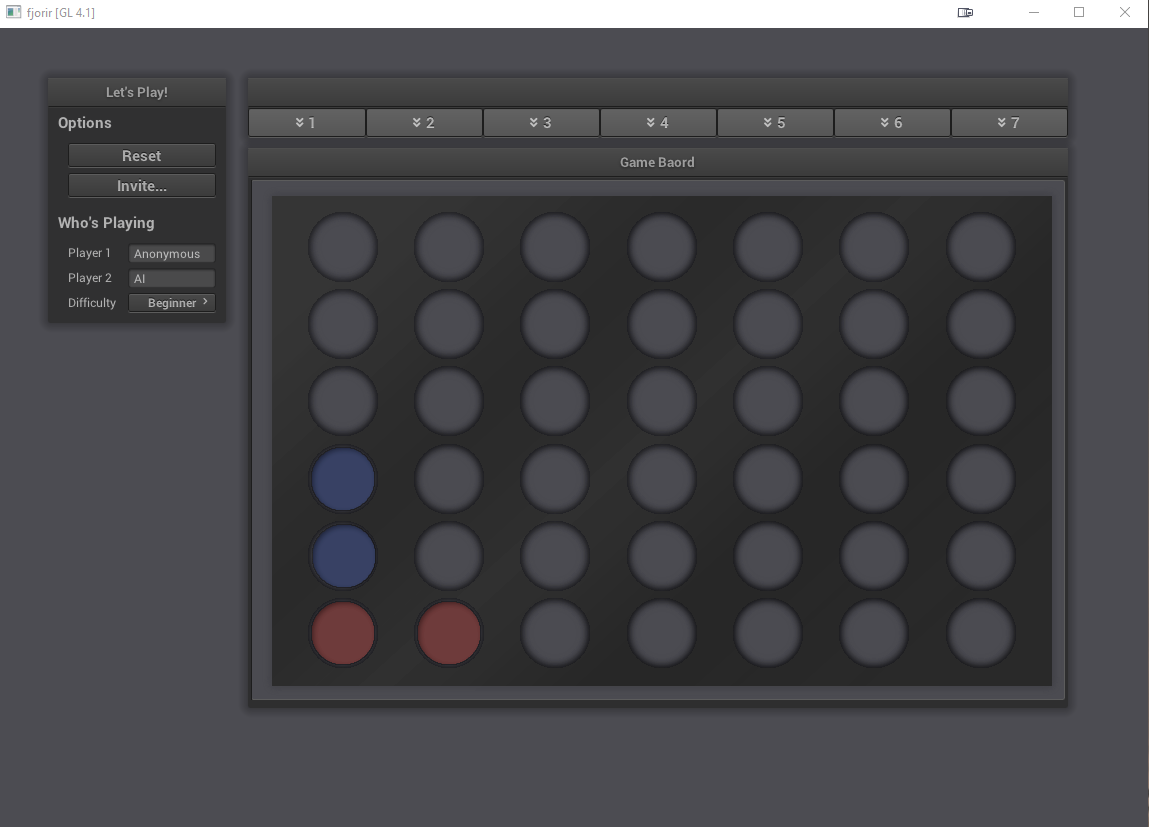
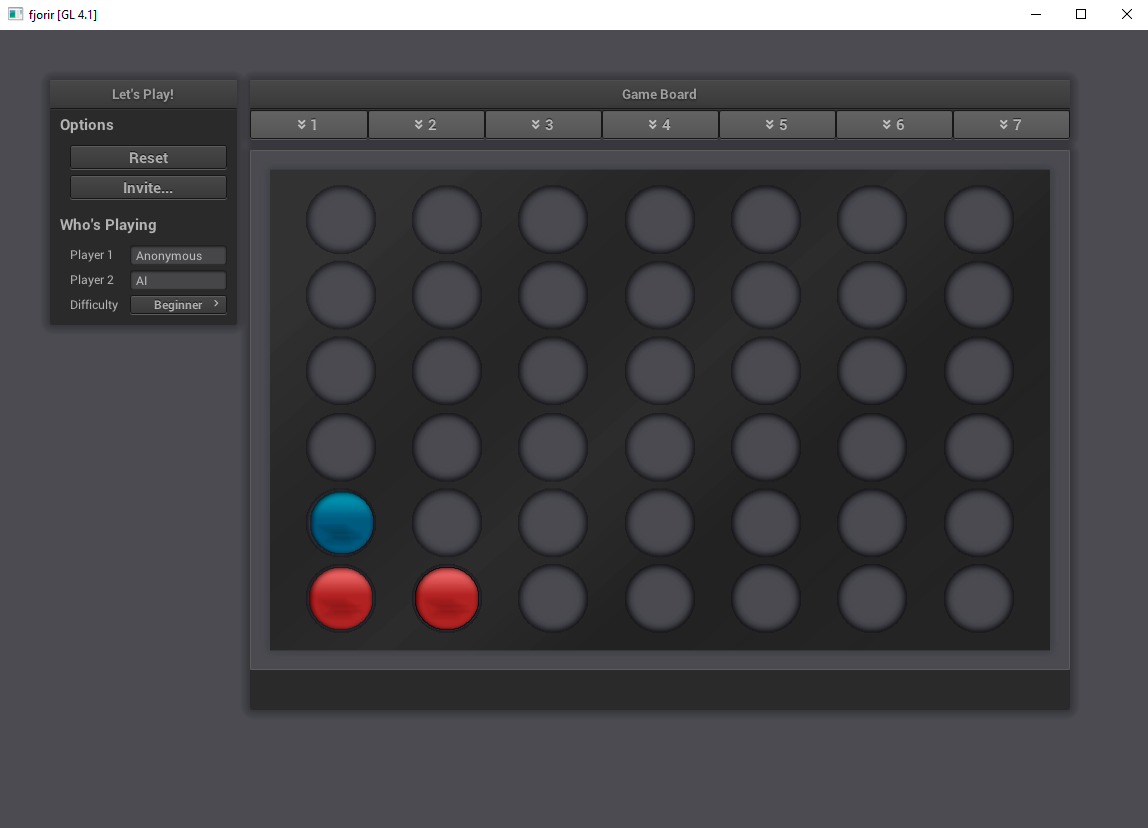
std::array board layout and new screenshots

diff --git a/src/interface.cc b/src/interface.cc
@@ -1,6 +1,7 @@
 #include <interface.h>
 
 namespace fjorir {
+
     Interface::Interface(bool init) : Screen(Vector2i(1150, 800), "fjorir [GL 4.1]",
         true, false,
         true, true,
@@ -42,73 +43,14 @@ namespace fjorir {
     }
 
     void Interface::set_board() {
-        auto window = new Window(this, " ");
+        this->inc_ref();
+        ref<Window> window = new Window(this, " ");
         window->set_fixed_size(Vector2i(820, 560));
         window->set_position(Vector2i(/*820, 520*/ 250, 120));
         canvas = new Board(window);
-        //        image_view->set_size(Vector2i(820, 520));
         canvas->set_background_color({ 100, 100, 100, 255 });
         canvas->set_fixed_size({ 820, 520 });
         perform_layout();
-        //#if defined(_WIN32)
-        //        /// Executable is in the Debug/Release/.. subdirectory
-        //        std::string resources_folder_path("../../../resources");
-        //#else
-        //        std::string resources_folder_path("./resources");
-        //#endif
-        //        std::vector<std::pair<int, std::string>> images;
-        //
-        //#if !defined(EMSCRIPTEN)
-        //        try {
-        //            images = load_image_directory(m_nvg_context, resources_folder_path);
-        //        }
-        //        catch (const std::exception& e) {
-        //            std::cerr << "Warning: " << e.what() << std::endl;
-        //        }
-        //#endif
-        //
-        //        auto image_window = new Window(this, "Game Baord");
-        //        image_window->set_fixed_size(Vector2i(820, 560));
-        //        image_window->set_position(Vector2i(/*820, 520*/ 250, 120));
-        //        image_window->set_layout(new GroupLayout(3));
-        //
-        //        Vector2i size;
-        //        int n = 0;
-        //
-        //
-        //        ImageHolder texture_data(
-        //            stbi_load((images[1].second + ".png").c_str(), &size.x(), &size.y(), &n, 0),
-        //            stbi_image_free);
-        //        assert(n == 4);
-        //
-        //        Texture* tex = new Texture(
-        //            Texture::PixelFormat::RGBA,
-        //            Texture::ComponentFormat::UInt8,
-        //            size,
-        //            Texture::InterpolationMode::Trilinear,
-        //            Texture::InterpolationMode::Nearest);
-        //
-        //        tex->upload(texture_data.get());
-        //
-        //        m_images.emplace_back(tex, std::move(texture_data));
-        //
-        //        ImageView* image_view = new ImageView(image_window);
-        //        if (!m_images.empty())
-        //            image_view->set_image(m_images[0].first);
-        //        image_view->set_size(Vector2i(820, 520));
-        //        image_view->center();
-        //
-        //        image_view->set_pixel_callback(
-        //            [this](const Vector2i& index, char** out, size_t size) {
-        //                const Texture* texture = m_images[0].first.get();
-        //                uint8_t* data = m_images[0].second.get();
-        //                for (int ch = 0; ch < 4; ++ch) {
-        //                    uint8_t value = data[(index.x() + index.y() * texture->size().x()) * 4 + ch];
-        //                    snprintf(out[ch], size, "%i", (int)value);
-        //                }
-        //            }
-        //        );
-
     }
 
 } // namespace fjorir

diff --git a/include/interface.h b/include/interface.h
@@ -1,15 +1,12 @@
 #pragma once
 
 #include <nanogui/opengl.h>
-#include <nanogui/imagepanel.h>
-#include <nanogui/imageview.h>
 #include <nanogui/tabwidget.h>
 #include <nanogui/texture.h>
 #include <nanogui/nanogui.h> 
 #include <iostream>
-#include <memory>
 
-#include <Board.h>
+#include <board.h>
 
 
 #define STB_IMAGE_STATIC
@@ -19,7 +16,6 @@
 #elif defined(__GNUC__)
 #   pragma GCC diagnostic ignored "-Wunused-function"
 #endif
-#include <gltexture.h>
 
 namespace fjorir {
     using namespace nanogui;
@@ -41,8 +37,6 @@ namespace fjorir {
         void set_board_actions();
         void set_sidebar();
         void set_board();
-        using ImageHolder = std::unique_ptr<uint8_t[], void(*)(void*)>;
-        std::vector<std::pair<ref<Texture>, ImageHolder>> m_images;
         difficulty default_difficulty = difficulty::Beginner;
     };
 } // namespace fjorir

diff --git a/src/board.cc b/src/board.cc
@@ -4,6 +4,7 @@
 
 namespace fs = std::filesystem;
 
+
 namespace fjorir {
 
     Board::Board(Widget* parent) : Canvas(parent, 1), m_image(-1), m_rotation(0.f) {
@@ -196,10 +197,10 @@ namespace fjorir {
 
         m_render_pass->begin();
         // https://github.com/memononen/nanovg/blob/master/src/nanovg.h
-        if (!std::filesystem::exists(fs::path("../../../resources/fjorir-board-2.png")))
+        if (!std::filesystem::exists(fs::path("../../../resources/fjorir-board-filled.png")))
             throw std::runtime_error("could not find game board image");
         if (m_image == -1)
-            m_image = nvgCreateImage(ctx, "../../../resources/fjorir-board-2.png", 0);
+            m_image = nvgCreateImage(ctx, "../../../resources/fjorir-board-filled.png", 0);
         if (m_image == 0)
             throw std::runtime_error("could not load game board");
 

diff --git a/include/board.h b/include/board.h
@@ -6,7 +6,7 @@
 #include <nanogui/opengl.h>
 #include <nanogui/renderpass.h>
 #include <GLFW/glfw3.h>
-#include <iostream>
+#include <array>
 
 #if defined(_WIN32)
 #  if defined(APIENTRY)
@@ -31,15 +31,18 @@ namespace fjorir {
 
     class Board : public Canvas {
     public:
+
         Board(Widget* parent);
         virtual ~Board();
         void set_rotation(float rotation);
         virtual void draw_contents() override;
         virtual void draw(NVGcontext* ctx) override;
     private:
+        using Image = int;
+        using Column = std::array < Image, 7>;
         ref<Shader> m_shader;
         int m_image;
-        std::vector<int> m_coins;
+        std::array<Column, 6> m_layout{};
         float m_rotation;
     };
 
